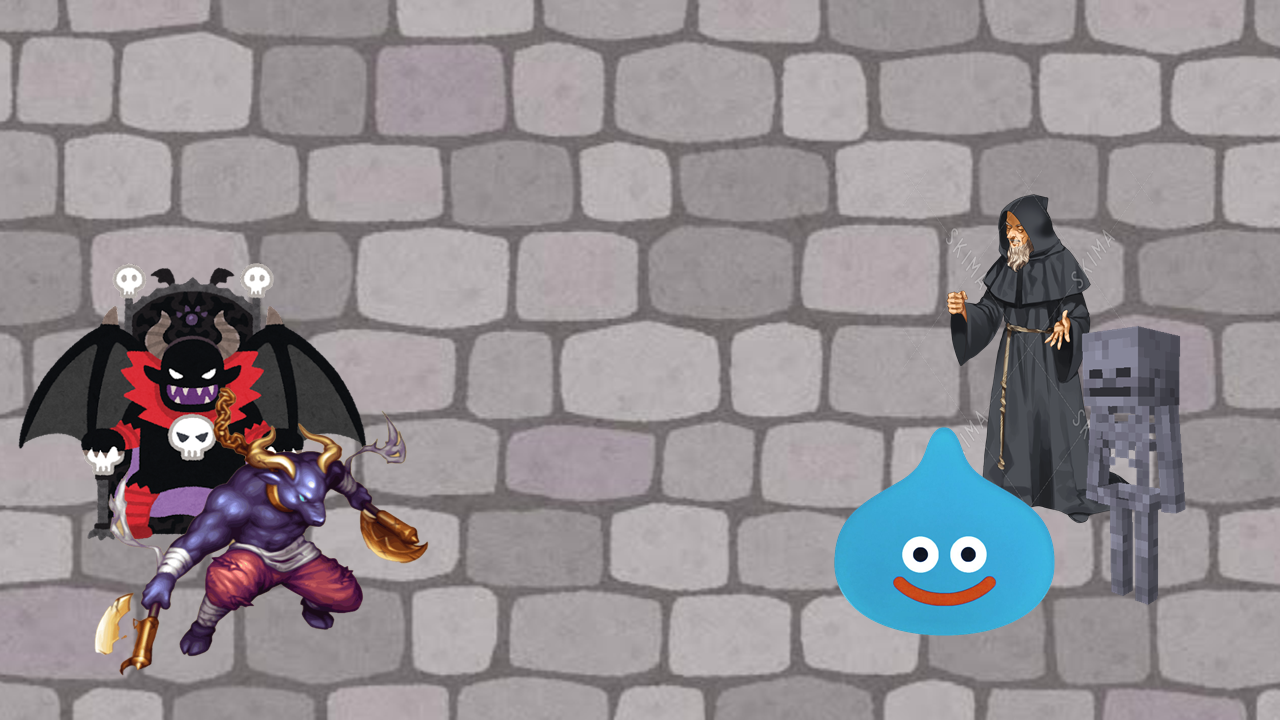
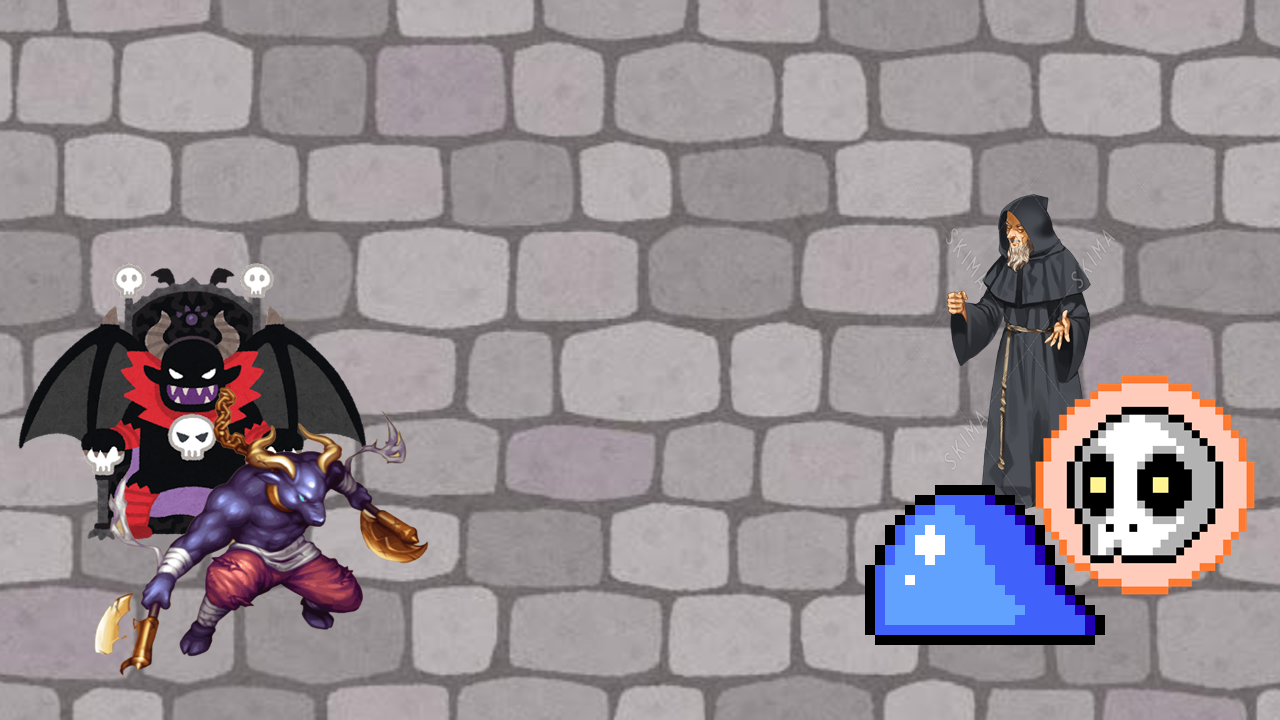
タイトルの背景画像の変更、タイトルカーソルボタンの変更、ファーストシーンの変更

Changed region(s): [[0.625, 0.4583, 1.0, 0.9167]]

diff --git a/main.cpp b/main.cpp
@@ -10,7 +10,7 @@ int WINAPI WinMain(_In_ HINSTANCE  hInstance, _In_opt_ HINSTANCE hPrevInstance, 
 	if (DxLib_Init() == -1) return -1;             // DxLib の初期化処理
 	SetDrawScreen(DX_SCREEN_BACK);                 // 描画先画面を裏にする（ダブルバッファリング）
 
-	SceneManager* sceneMng = new SceneManager((Scene*) new DebugScene());
+	SceneManager* sceneMng = new SceneManager((Scene*) new Title());
 
 	FPSCtrl::SetLimitRate(SCREEN_FPS);
 	FPSCtrl::SetUpdateInterval(1000);
